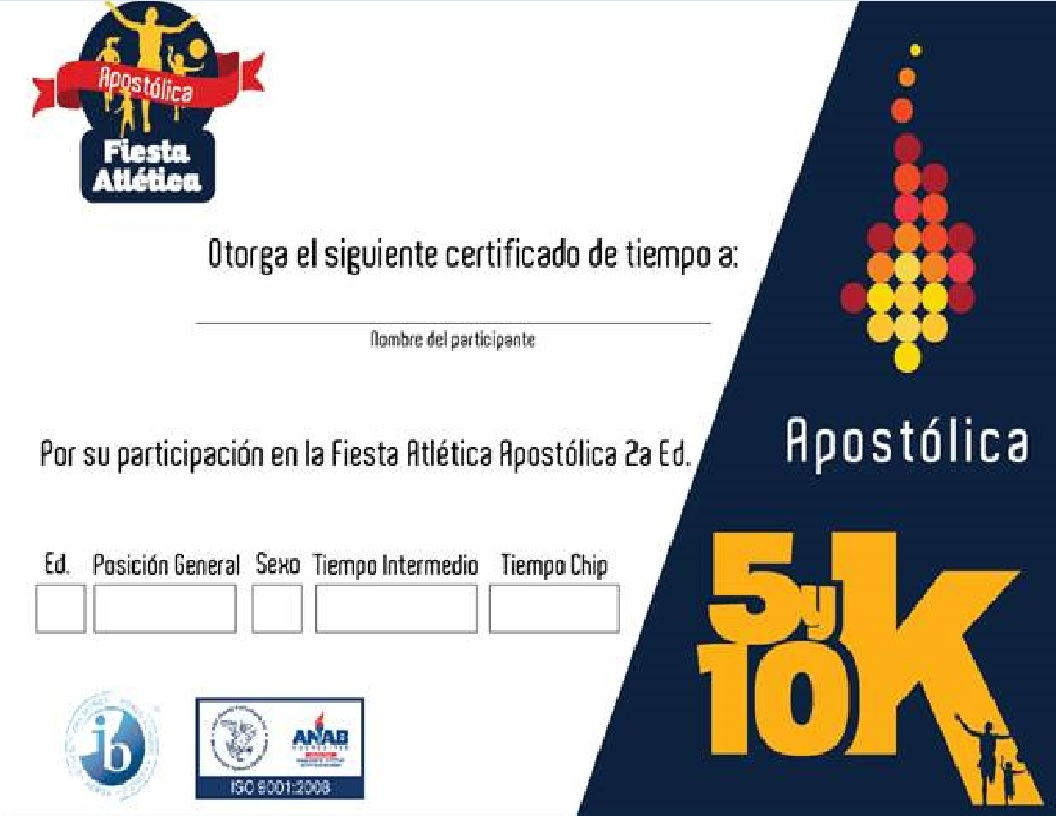
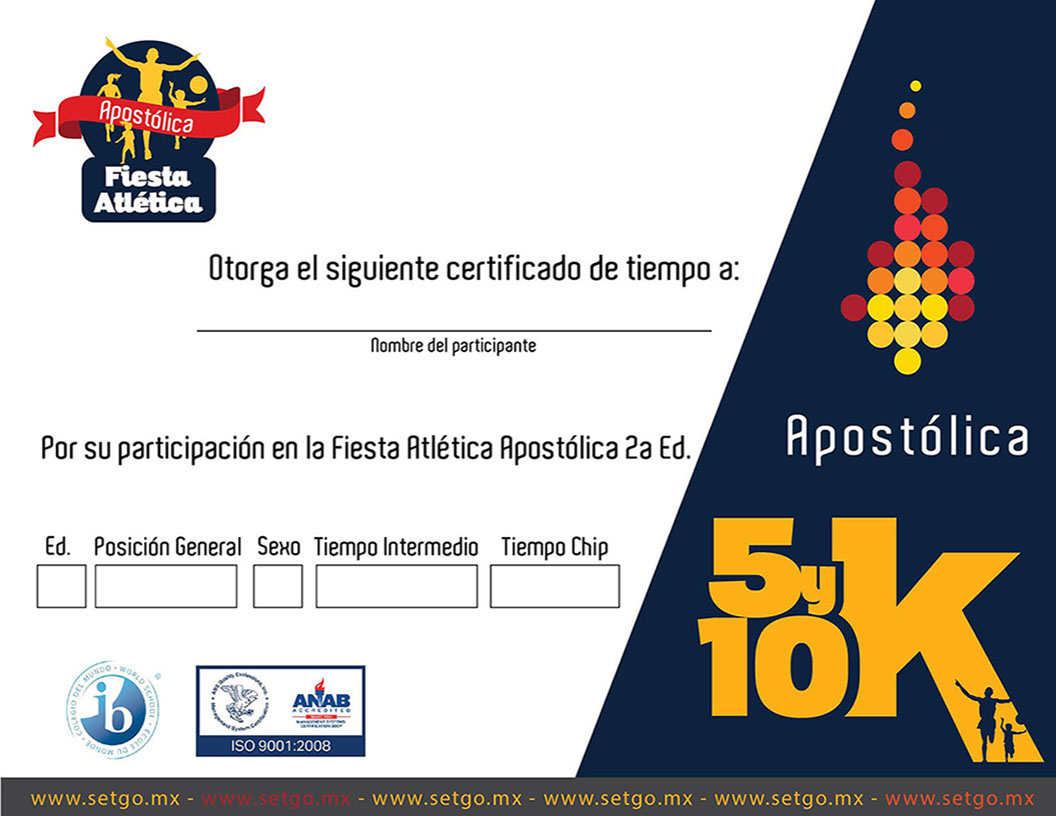
Cambios para visualizar correctamente el ReporteCertificado_3.rdlc (Apostólica)

diff --git a/WebApplicationTemplate.Web/PublicPages/ConsultaResultados.aspx.cs b/WebApplicationTemplate.Web/PublicPages/ConsultaResultados.aspx.cs
@@ -103,7 +103,7 @@ namespace WebApplicationTemplate.Web.PublicPages
 
         private void GeneraCertificado(int IdResultado)
         {
-            Reports.Classes.ReporteCertificado_1 reportCertificado = new Reports.Classes.ReporteCertificado_1();
+            Reports.Classes.ReporteCertificado_3 reportCertificado = new Reports.Classes.ReporteCertificado_3();
 
             reportCertificado.IdCarrera = IdCarreraProperty;
             reportCertificado.IdResultado = IdResultado;
